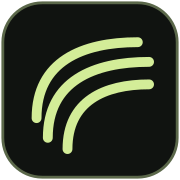
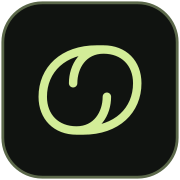
Refine Flowstate studio mark and add portfolio links

Changed region(s): [[0.1667, 0.1944, 0.8611, 0.8611], [0.2778, 0.3333, 0.3056, 0.3611]]

diff --git a/src/app/flowstate/flowstate.module.css b/src/app/flowstate/flowstate.module.css
@@ -1,6 +1,6 @@
 .studio{--ink:#101310;--paper:#eceee3;--muted:#a5ad9f;--line:#31382f;--accent:#d3ed98;background:var(--ink);color:var(--paper);font-family:var(--font-geist-sans),sans-serif;overflow:clip;font-size:16px;line-height:1.6}
 .studio *{box-sizing:border-box}.studio ::selection{background:var(--accent);color:var(--ink)}.studio a{text-decoration:none}.studio a:focus-visible,.studio button:focus-visible,.studio summary:focus-visible{outline:2px solid var(--accent);outline-offset:6px}.studio h1,.studio h2,.studio h3,.studio p{margin:0}.studio em{font-family:Georgia,"Times New Roman",serif;font-weight:400;letter-spacing:-.065em}.studio h2{font-size:clamp(38px,4.4vw,66px);line-height:1.08;letter-spacing:-.055em;font-weight:400}.studio section[id]{scroll-margin-top:30px}.srOnly{position:absolute;width:1px;height:1px;padding:0;margin:-1px;overflow:hidden;clip:rect(0,0,0,0);white-space:nowrap;border:0}
-.header,.hero,.practice,.work,.process,.footer{max-width:1440px;margin-inline:auto;padding-inline:64px}.header{display:flex;align-items:center;justify-content:space-between;height:112px;border-bottom:1px solid var(--line);position:relative;z-index:2}.brand{display:inline-flex;align-items:center;gap:10px;color:var(--paper);min-height:44px}.brand>span{font-size:27px;letter-spacing:-1.5px;line-height:1}.labs{font-family:var(--font-geist-mono),monospace;display:inline-block;font-size:9px;letter-spacing:2px;vertical-align:top;margin:3px 0 0 8px;color:var(--muted)}.header nav{display:flex;align-items:center;gap:36px;font-size:14px}.header nav>a{min-height:44px;display:inline-flex;align-items:center;color:#c5cbbf}.header nav>a:hover{color:var(--accent)}.header .navContact{gap:14px;border-bottom:1px solid #70805e;color:var(--paper)}
+.header,.hero,.practice,.work,.process,.footer{max-width:1440px;margin-inline:auto;padding-inline:64px}.header{display:flex;align-items:center;justify-content:space-between;height:112px;border-bottom:1px solid var(--line);position:relative;z-index:2}.brand{display:inline-flex;align-items:center;gap:10px;color:var(--paper);min-height:44px}.brand>svg{flex:none;width:30px;height:30px}.brand>span{font-size:27px;letter-spacing:-1.5px;line-height:1}.labs{font-family:var(--font-geist-mono),monospace;display:inline-block;font-size:9px;letter-spacing:2px;vertical-align:top;margin:3px 0 0 8px;color:var(--muted)}.header nav{display:flex;align-items:center;gap:36px;font-size:14px}.header nav>a{min-height:44px;display:inline-flex;align-items:center;color:#c5cbbf}.header nav>a:hover{color:var(--accent)}.header .navContact{gap:14px;border-bottom:1px solid #70805e;color:var(--paper)}
 .hero{position:relative;min-height:690px;padding-top:85px;padding-bottom:0;display:flex;flex-direction:column}.heroIntro{position:relative;z-index:1;pointer-events:none}.heroIntro a{pointer-events:auto}.eyebrow{font-family:var(--font-geist-mono),monospace;font-size:11px;font-weight:400;letter-spacing:.11em;line-height:1.7;text-transform:uppercase;color:var(--muted)}.hero .eyebrow{display:flex;align-items:center;gap:11px}.statusDot{width:6px;height:6px;border-radius:50%;background:var(--accent);box-shadow:0 0 14px #d3ed9833}.hero h1{font-size:clamp(64px,6.5vw,96px);font-weight:400;letter-spacing:-.065em;line-height:1.04;margin-top:36px;max-width:850px}.hero h1 em{color:var(--accent)}.heroCopy{font-size:17px;line-height:1.8;color:#b3bbab;max-width:440px;margin-top:30px!important}.primaryLink{display:inline-flex;align-items:center;justify-content:space-between;gap:32px;min-height:54px;padding:14px 22px;background:var(--accent);color:#1c2615;font-size:14px;font-weight:550;border-radius:2px;transition:background .2s,transform .2s}.primaryLink:hover{background:#e2ffaf;transform:translateY(-2px)}.hero .primaryLink{margin-top:32px}.heroFoot{position:relative;z-index:1;display:flex;align-items:center;justify-content:space-between;border-top:1px solid var(--line);margin-top:65px;padding-block:22px;font-family:var(--font-geist-mono),monospace;font-size:10px;letter-spacing:.04em;color:var(--muted)}.heroFoot a{display:inline-flex;gap:18px;min-height:44px;align-items:center;color:var(--paper)}
 .field{position:absolute;right:-36px;top:2px;width:700px;height:640px;pointer-events:none}.fieldArt{width:100%;height:100%;overflow:visible}.flowLines{transform-origin:450px 450px;animation:flow-turn 45s linear infinite}.field[data-paused=true] .flowLines{animation-play-state:paused}.fieldCaption{position:absolute;bottom:26px;left:33%;right:17%;display:flex;align-items:center;justify-content:space-between;color:#8d9c82;font-family:var(--font-geist-mono),monospace;font-size:9px;letter-spacing:.08em;gap:16px}.fieldCaption button{pointer-events:auto;display:inline-flex;align-items:center;gap:6px;background:none;border:none;color:#b3bdab;min-height:44px;cursor:pointer}.stillLabel{display:none}@keyframes flow-turn{to{transform:rotate(360deg)}}
 .practice{padding-top:100px;padding-bottom:100px}.sectionMeta{display:flex;align-items:center;justify-content:space-between;border-bottom:1px solid var(--line);padding-bottom:24px}.sectionMeta>span:last-child{font-family:var(--font-geist-mono),monospace;font-size:10px;letter-spacing:.1em;color:#818d78}.manifesto{display:grid;grid-template-columns:1.1fr 1fr;gap:100px;padding-block:54px 70px}.manifesto>div{padding-top:6px}.manifesto p{font-size:17px;color:var(--muted);line-height:1.85}.manifesto p:first-child{color:#dce0d5;font-size:21px;line-height:1.6}.manifesto p+p{margin-top:22px}.quietLink{display:inline-flex;align-items:center;gap:18px;font-size:14px;min-height:44px;color:var(--paper);border-bottom:1px solid #65725b;margin-top:24px}.quietLink:hover{color:var(--accent)}.services{display:grid;grid-template-columns:repeat(3,1fr);border-top:1px solid var(--line);border-bottom:1px solid var(--line)}.services article{position:relative;padding:30px 30px 32px 0;display:flex;flex-direction:column}.services article+article{border-left:1px solid var(--line);padding-left:30px}.serviceIndex{font-family:var(--font-geist-mono),monospace;font-size:11px;color:#8c9981}.services h3{font-size:25px;font-weight:400;letter-spacing:-.045em;margin-top:30px}.services p{font-size:15px;line-height:1.8;color:var(--muted);margin-top:16px;max-width:32ch}.serviceTags{font-family:var(--font-geist-mono),monospace;font-size:10px;line-height:1.8;color:#a9b29f;padding-top:28px;margin-top:auto}.serviceGlyph{height:52px;width:72px;position:relative;margin-top:32px}.serviceGlyph i{position:absolute;display:block;border:1px solid #a7be87;border-radius:50%;height:48px;width:48px;left:0}.serviceGlyph i:nth-child(2){left:12px;opacity:.65}.serviceGlyph i:nth-child(3){left:24px;opacity:.35}.glyphInterface i{border-radius:3px;width:56px;height:36px;transform:rotate(-12deg);top:0}.glyphInterface i:nth-child(2){top:8px;left:5px}.glyphInterface i:nth-child(3){top:16px;left:10px}.glyphBuild i{border-radius:0;transform:rotate(45deg);width:32px;height:32px;top:8px}.glyphBuild i:nth-child(2){left:18px}.glyphBuild i:nth-child(3){left:36px}
@@ -10,6 +10,6 @@
 @media(min-width:1600px){.hero{min-height:760px;padding-top:104px}.field{width:780px;height:710px;right:-50px;top:0}.heroFoot{margin-top:88px}}
 @media(max-width:1199px){.header,.hero,.practice,.work,.process,.footer{padding-inline:40px}.header nav{gap:24px}.hero h1{font-size:76px}.field{width:580px;right:-100px;top:10px;opacity:.75}.heroIntro{max-width:700px}.heroCopy{max-width:390px}.manifesto,.process{gap:50px}.compArt,.contraxArt{height:310px}.compWord{font-size:53px}.contraxWord{font-size:68px}.fieldCaption{right:20%;left:25%}}
 @media(max-width:899px){.header{height:94px}.header nav>a:not(.navContact){display:none}.hero{padding-top:60px;min-height:auto}.hero h1{font-size:clamp(55px,8.5vw,76px)}.field{right:-160px;top:10px;opacity:.4}.fieldCaption{display:none}.heroIntro{max-width:660px}.heroCopy{max-width:390px}.heroFoot{margin-top:65px}.manifesto{grid-template-columns:1fr;gap:32px}.manifesto>div{max-width:560px}.practice{padding-block:72px}.services article{padding-right:22px}.services article+article{padding-left:22px}.services h3{font-size:23px}.serviceTags{font-size:9px}.sectionHeading{align-items:flex-start;flex-direction:column;gap:28px}.sectionHeading>p{max-width:520px}.compArt,.contraxArt{height:280px;padding:20px}.compWord{font-size:44px}.contraxWord{font-size:58px}.artTop{font-size:8px}.process{grid-template-columns:1fr;gap:42px;padding-block:70px}.processIntro{max-width:48ch}.processNote{display:none}.footer{flex-wrap:wrap}.footer>div{align-items:flex-start}}
-@media(max-width:599px){.header,.hero,.practice,.work,.process,.footer{padding-inline:24px}.header{height:84px}.brand>span{font-size:24px}.brand svg{width:31px}.labs{font-size:8px;margin-left:6px}.header nav{gap:0}.header .navContact{font-size:12px;gap:8px;max-width:138px}.hero{padding-top:42px}.hero .eyebrow{font-size:9px;letter-spacing:.06em}.hero h1{font-size:clamp(44px,10.5vw,62px);margin-top:28px;line-height:1.08;letter-spacing:-.065em}.heroCopy{font-size:16px;max-width:34ch;margin-top:24px!important}.desktopBreak{display:none}.hero .primaryLink{margin-top:26px}.field{position:relative;top:auto;right:auto;width:calc(100% + 48px);height:350px;margin:-22px -24px -25px;opacity:1}.fieldArt{width:100%;height:100%}.fieldCaption{display:flex;bottom:10px;left:24px;right:24px;font-size:8px}.heroFoot{margin-top:30px;gap:20px;padding-block:15px;font-size:9px}.heroFoot>span{max-width:19ch}.heroFoot>a{gap:10px}.practice{padding-top:54px;padding-bottom:60px}.sectionMeta{padding-bottom:18px}.sectionMeta>span:last-child{display:none}.eyebrow{font-size:10px}.manifesto{padding-block:32px 40px;gap:26px}.studio h2{font-size:40px}.manifesto p:first-child{font-size:20px}.manifesto p{font-size:16px}.services{grid-template-columns:1fr}.services article,.services article+article{border-left:0;padding:28px 0;display:grid;grid-template-columns:1fr 76px}.services article+article{border-top:1px solid var(--line)}.serviceGlyph{grid-column:2;grid-row:1/3;margin-top:0;align-self:center}.services h3{grid-column:1;grid-row:2;margin-top:14px;font-size:26px}.services p{grid-column:1/-1;max-width:40ch;margin-top:18px}.serviceTags{grid-column:1/-1;font-size:10px;padding-top:20px}.work{padding-top:0;padding-bottom:58px}.sectionHeading{padding-block:32px;gap:24px}.workGrid{grid-template-columns:1fr;gap:40px}.compArt,.contraxArt{height:300px;padding:22px}.compWord{font-size:55px}.contraxWord{font-size:72px}.artTop{font-size:8px}.workInfo{margin-top:21px}.workInfo h3{font-size:28px}.workCard>p{font-size:15px}.process{padding-block:54px;gap:32px}.process h2{margin-top:22px}.processIntro{margin-top:24px!important}.processSteps summary{gap:16px;padding-block:23px}.processSteps h3{font-size:20px}.processSteps details>p{padding-left:31px;padding-right:10px}.connect{padding:65px 24px 60px}.connect h2{font-size:clamp(36px,9.5vw,54px)}.connect .eyebrow{font-size:9px}.connect>p:not(.eyebrow){font-size:15px}.footer{padding-block:35px;gap:26px}.footer>.brand{width:100%}.footer>p{font-size:12px}.footer>div{margin-left:auto;align-items:flex-end;font-size:10px}.primaryLink{min-height:54px}}
+@media(max-width:599px){.header,.hero,.practice,.work,.process,.footer{padding-inline:24px}.header{height:84px}.brand>span{font-size:24px}.brand svg{width:27px;height:27px}.labs{font-size:8px;margin-left:6px}.header nav{gap:0}.header .navContact{font-size:12px;gap:8px;max-width:138px}.hero{padding-top:42px}.hero .eyebrow{font-size:9px;letter-spacing:.06em}.hero h1{font-size:clamp(44px,10.5vw,62px);margin-top:28px;line-height:1.08;letter-spacing:-.065em}.heroCopy{font-size:16px;max-width:34ch;margin-top:24px!important}.desktopBreak{display:none}.hero .primaryLink{margin-top:26px}.field{position:relative;top:auto;right:auto;width:calc(100% + 48px);height:350px;margin:-22px -24px -25px;opacity:1}.fieldArt{width:100%;height:100%}.fieldCaption{display:flex;bottom:10px;left:24px;right:24px;font-size:8px}.heroFoot{margin-top:30px;gap:20px;padding-block:15px;font-size:9px}.heroFoot>span{max-width:19ch}.heroFoot>a{gap:10px}.practice{padding-top:54px;padding-bottom:60px}.sectionMeta{padding-bottom:18px}.sectionMeta>span:last-child{display:none}.eyebrow{font-size:10px}.manifesto{padding-block:32px 40px;gap:26px}.studio h2{font-size:40px}.manifesto p:first-child{font-size:20px}.manifesto p{font-size:16px}.services{grid-template-columns:1fr}.services article,.services article+article{border-left:0;padding:28px 0;display:grid;grid-template-columns:1fr 76px}.services article+article{border-top:1px solid var(--line)}.serviceGlyph{grid-column:2;grid-row:1/3;margin-top:0;align-self:center}.services h3{grid-column:1;grid-row:2;margin-top:14px;font-size:26px}.services p{grid-column:1/-1;max-width:40ch;margin-top:18px}.serviceTags{grid-column:1/-1;font-size:10px;padding-top:20px}.work{padding-top:0;padding-bottom:58px}.sectionHeading{padding-block:32px;gap:24px}.workGrid{grid-template-columns:1fr;gap:40px}.compArt,.contraxArt{height:300px;padding:22px}.compWord{font-size:55px}.contraxWord{font-size:72px}.artTop{font-size:8px}.workInfo{margin-top:21px}.workInfo h3{font-size:28px}.workCard>p{font-size:15px}.process{padding-block:54px;gap:32px}.process h2{margin-top:22px}.processIntro{margin-top:24px!important}.processSteps summary{gap:16px;padding-block:23px}.processSteps h3{font-size:20px}.processSteps details>p{padding-left:31px;padding-right:10px}.connect{padding:65px 24px 60px}.connect h2{font-size:clamp(36px,9.5vw,54px)}.connect .eyebrow{font-size:9px}.connect>p:not(.eyebrow){font-size:15px}.footer{padding-block:35px;gap:26px}.footer>.brand{width:100%}.footer>p{font-size:12px}.footer>div{margin-left:auto;align-items:flex-end;font-size:10px}.primaryLink{min-height:54px}}
 @media(min-width:600px) and (max-width:899px){.flowLines{animation:none}}
 @media(prefers-reduced-motion:reduce){.flowLines{animation:none}.fieldCaption button{display:none}.stillLabel{display:inline}.studio a,.studio svg,.studio summary>svg{transition:none!important}.primaryLink:hover,.workCard:hover .workInfo>svg{transform:none}}

diff --git a/src/components/site-footer.tsx b/src/components/site-footer.tsx
@@ -2,4 +2,5 @@ import Image from "next/image";
 import Link from "next/link";
 import { Container } from "@/components/container";
 import { SocialLinks } from "@/components/social-links";
-export function SiteFooter() { return <footer className="site-footer"><Container><div className="footer-inner"><Link href="/" aria-label="KJ Magill: home"><Image src="/images/kj-logo.png" alt="KJ" width={44} height={45} loading="eager" /></Link><p>© {new Date().getFullYear()} KJ Magill<span>Always building. Always learning.</span></p><SocialLinks /><a href="#main" className="back-top">Back to top ↑</a></div></Container></footer>; }
+import { links } from "@/lib/site";
+export function SiteFooter() { return <footer className="site-footer"><Container><div className="footer-inner"><Link href="/" aria-label="KJ Magill: home"><Image src="/images/kj-logo.png" alt="KJ" width={44} height={45} loading="eager" /></Link><p>© {new Date().getFullYear()} KJ Magill<span>Always building. Always learning.</span><a className="footer-studio" href={links.flowstate}>My studio: Flowstate Labs <span aria-hidden="true">↗</span></a></p><SocialLinks /><a href="#main" className="back-top">Back to top ↑</a></div></Container></footer>; }

diff --git a/src/app/flowstate/page.tsx b/src/app/flowstate/page.tsx
@@ -19,7 +19,7 @@ export const metadata: Metadata = {
 export const viewport: Viewport = { themeColor: "#101310", colorScheme: "dark" };
 
 function Mark({ className = "" }: { className?: string }) {
-  return <svg className={className} width="38" height="38" viewBox="0 0 40 40" fill="none" aria-hidden="true"><path d="M5 27C5 12 17 7 32 7M8 32C8 17 20 12 35 12M13 35C13 22 23 18 35 18" stroke="currentColor" strokeWidth="2.3" strokeLinecap="round" /></svg>;
+  return <svg className={className} width="30" height="30" viewBox="0 0 40 40" fill="none" aria-hidden="true"><path d="M24 8H22C12 8 6 14 6 22C6 28 10 32 16 32C22 32 25 27 25 22M16 32H18C28 32 34 26 34 18C34 12 30 8 24 8C18 8 15 13 15 18" stroke="currentColor" strokeWidth="2.5" strokeLinecap="round" /></svg>;
 }
 
 export default function FlowstatePage() {

diff --git a/src/app/globals.css b/src/app/globals.css
@@ -346,3 +346,7 @@ h2 { font-size: clamp(34px, 3.8vw, 50px); font-weight: 450; line-height: 1.18; l
   .project-art-bottom { font-size: 11px; }
   .more-work-heading { align-items: start; }
 }
+
+.footer-inner .footer-studio { display: inline-flex; align-items: center; gap: 8px; min-height: 44px; color: #d7d7d0; text-underline-offset: 5px; }
+.footer-inner .footer-studio span { display: inline; color: inherit; margin: 0; }
+.footer-studio:hover { text-decoration: underline; }

diff --git a/src/lib/site.ts b/src/lib/site.ts
@@ -23,7 +23,7 @@ export const links = {
   x: "https://x.com/kjmagill",
   email: "mailto:kjmagill@protonmail.com",
   capeMayWebDesign: "https://www.capemaywebdesign.com",
-  flowstate: "https://kjmagill.com/flowstate",
+  flowstate: "https://flowstatelabs.kjmagill.com",
   contrax: "https://github.com/Contrax-co/contrax-dapp",
 } as const;
 
